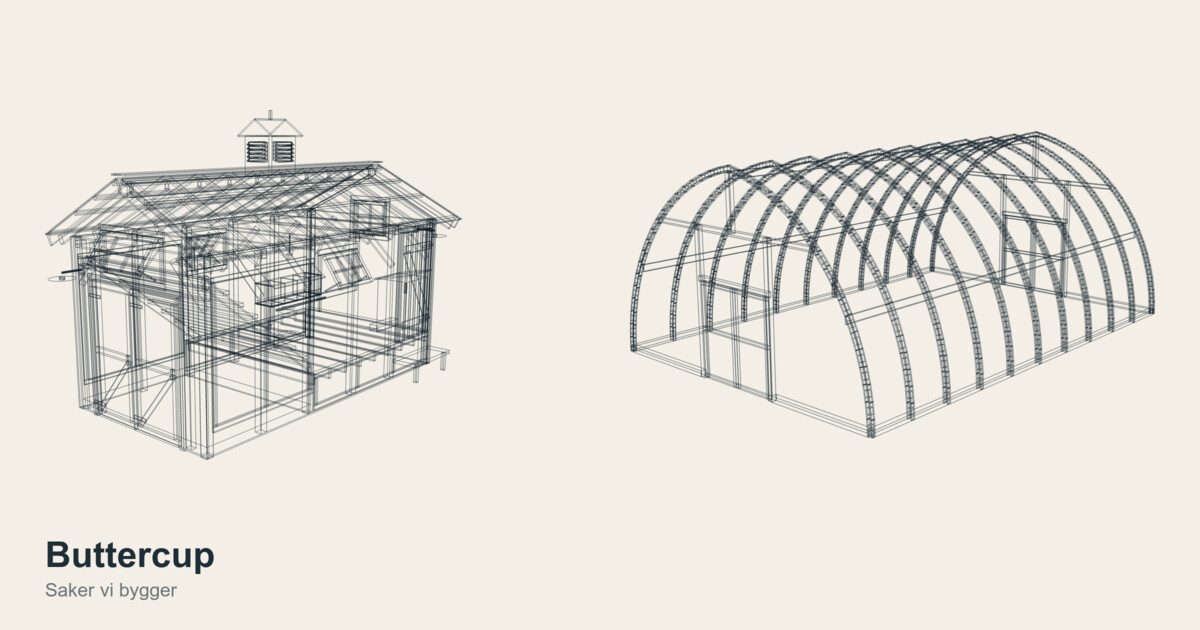
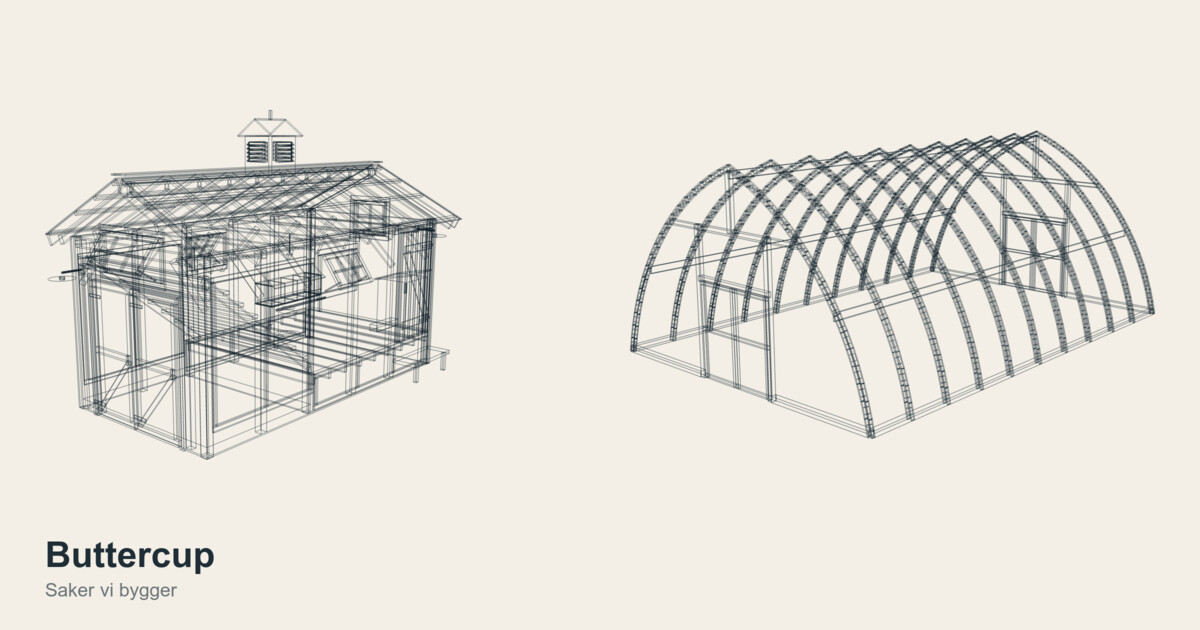
Växthus: spetsigare båge (radiecentrum under mark), reglage för spetsighet, ny förhandsbild

Changed region(s): [[0.5242, 0.2111, 0.9867, 0.6937], [0.6475, 0.6333, 0.6783, 0.6635]]

diff --git a/vaxthus/index.html b/vaxthus/index.html
@@ -130,6 +130,7 @@ dd{margin:2px 0 0;font-family:var(--mono);font-size:15px;font-variant-numeric:ta
     <div class="hrow"><span class="lab">Dörrhöjd</span><input id="dhi" type="range" min="1.8" max="3" step="0.05" value="2" aria-label="Dörrhöjd"><output id="dho" for="dhi"></output></div>
     <div class="hrow"><span class="lab">Överljus</span><input id="tri" type="range" min="0" max="1.5" step="0.05" value="1" aria-label="Överljusets höjd"><output id="tro" for="tri"></output></div>
     <div class="hrow"><span class="lab">Bågavstånd</span><input id="spi" type="range" min="0.6" max="3" step="0.05" value="1" aria-label="Avstånd mellan bågarna"><output id="spo" for="spi"></output></div>
+    <div class="hrow"><span class="lab">Spetsighet</span><input id="pti" type="range" min="0" max="2.5" step="0.05" value="1" aria-label="Hur spetsig bågen är"><output id="pto" for="pti"></output></div>
   </section>
   </div>
 
@@ -151,6 +152,8 @@ dd{margin:2px 0 0;font-family:var(--mono);font-size:15px;font-variant-numeric:ta
     <div><dt>Båglängd, halvbåge</dt><dd id="dB"></dd></div>
     <div><dt>Båglängd, hel båge</dt><dd id="dB2"></dd></div>
     <div><dt>Radiecentrum förskjutet</dt><dd id="dC"></dd></div>
+    <div><dt>Radiecentrum under mark</dt><dd id="dY"></dd></div>
+    <div><dt>Taklutning vid nock</dt><dd id="dP"></dd></div>
     <div><dt>Längd</dt><dd id="dL"></dd></div>
     <div><dt>Dörröppning</dt><dd id="dD"></dd></div>
     <div><dt>Överljus</dt><dd id="dT"></dd></div>
@@ -179,19 +182,20 @@ dd{margin:2px 0 0;font-family:var(--mono);font-size:15px;font-variant-numeric:ta
   var T=THREE, V=function(x,y,z){return new T.Vector3(x,y,z);};
 
   // ---- geometry constants (metres) ----
-  var A=3.5, H=4.2, C, R, TH1, ARC;
-  function geo(){ C=(H*H-A*A)/(2*A); R=C+A; TH1=Math.atan2(H,-C); ARC=R*(Math.PI-TH1); }
+  var A=3.5, H=4.2, YC=-1, C, R, TH0, TH1, ARC;
+  function geo(){ C=(H*H-A*A-2*H*YC)/(2*A); R=Math.sqrt((C+A)*(C+A)+YC*YC); TH0=Math.PI-Math.asin(-YC/R); TH1=Math.atan2(H-YC,-C); ARC=R*(TH0-TH1); }
+  function slope(){ return Math.atan(C/(H-YC))*180/Math.PI; }
   var DW=1, DH=2, TR=1;                      // half door width, door height, transom height
   function fit(){                            // keep the door frame under the arch
     DW=Math.min(DW,A-1);
-    var lim=Math.sqrt(R*R-(DW+C)*(DW+C))-.2;
+    var lim=YC+Math.sqrt(R*R-(DW+C)*(DW+C))-.2;
     if(DH+TR>lim) TR=Math.max(0,Math.floor((lim-DH)*20+1e-6)/20);
     if(DH+TR>lim) DH=Math.floor(lim*20+1e-6)/20;
   }
   geo(); fit();
   function fmt(v){ return String(Math.round(v)).replace(/\B(?=(\d{3})+(?!\d))/g,' '); }
-  function ap(u,side,r){ r=r||R; var t1=Math.acos(-C/r), th=Math.PI-u*(Math.PI-t1); var x=C+r*Math.cos(th); return [side<0?x:-x, r*Math.sin(th)]; }
-  function xa(y){ return Math.sqrt(R*R-y*y)-C; }
+  function ap(u,side,r){ r=r||R; var t0=Math.PI-Math.asin(Math.min(1,-YC/r)), t1=Math.acos(-C/r), th=t0-u*(t0-t1); var x=C+r*Math.cos(th); return [side<0?x:-x, YC+r*Math.sin(th)]; }
+  function xa(y){ return Math.sqrt(R*R-(y-YC)*(y-YC))-C; }
 
   var STEPS=[
     {n:'Syllram',a:0,b:.10},{n:'Bågar',a:.10,b:.52},{n:'Nock och sidoreglar',a:.52,b:.64},
@@ -344,6 +348,8 @@ dd{margin:2px 0 0;font-family:var(--mono);font-size:15px;font-variant-numeric:ta
     document.getElementById('dB').textContent=fmt(ARC*1000)+' mm';
     document.getElementById('dB2').textContent=fmt(2*ARC*1000)+' mm';
     document.getElementById('dC').textContent=fmt(C*1000)+' mm';
+    document.getElementById('dY').textContent=fmt(-YC*1000)+' mm';
+    document.getElementById('dP').textContent=Math.round(slope())+'°';
     document.getElementById('dN').textContent=n+' st';
     document.getElementById('dNl').textContent='Bågar c/c '+fmt(L/(n-1)*1000)+' mm';
     document.getElementById('dA').textContent=fmt(2*A*L)+' m²';
@@ -451,13 +457,13 @@ dd{margin:2px 0 0;font-family:var(--mono);font-size:15px;font-variant-numeric:ta
     function ln(c,x1,y1,x2,y2){ return '<line class="'+c+'" x1="'+x1+'" y1="'+y1+'" x2="'+x2+'" y2="'+y2+'"/>'; }
     function tx(x,yy,t,an,c,rot){ return '<text x="'+x+'" y="'+yy+'" text-anchor="'+(an||'middle')+'"'+(c?' class="'+c+'"':'')+(rot?' transform="rotate(-90 '+x+' '+yy+')"':'')+'>'+t+'</text>'; }
     o+=ln('s-gnd',-A-1.4,YG,A+1.4,YG);
-    [R-.047,R+.047].forEach(function(r){ var ay=YG-Math.sqrt(r*r-C*C); o+='<path class="s-arch" d="M'+(C-r)+' '+YG+' A'+r+' '+r+' 0 0 1 0 '+ay+' A'+r+' '+r+' 0 0 1 '+(r-C)+' '+YG+'"/>'; });
+    [R-.047,R+.047].forEach(function(r){ var bx=Math.sqrt(r*r-YC*YC)-C, ay=YG-(YC+Math.sqrt(r*r-C*C)); o+='<path class="s-arch" d="M'+(-bx)+' '+YG+' A'+r+' '+r+' 0 0 1 0 '+ay+' A'+r+' '+r+' 0 0 1 '+bx+' '+YG+'"/>'; });
     var nb=Math.max(12,Math.round(ARC/.3)), bj, bs, b0, b1;
     for(bj=0;bj<nb;bj++) for(bs=-1;bs<=1;bs+=2){ b0=ap((bj+.5)/nb,bs,R-.04); b1=ap((bj+.5)/nb,bs,R+.04); o+=ln('s-blk',b0[0],YG-b0[1],b1[0],YG-b1[1]); }
     o+='<rect class="s-wood" x="'+(-DW)+'" y="'+(YG-DH)+'" width="'+(2*DW)+'" height="'+DH+'"/><rect class="s-wood" x="'+(-DW)+'" y="'+(YG-top)+'" width="'+(2*DW)+'" height="'+TR+'"/>';
     o+=ln('s-wood',0,YG-DH,0,YG)+ln('s-wood',0,YG-top,0,y)+ln('s-wood',-DW,YG-top,-x3,YG-top)+ln('s-wood',DW,YG-top,x3,YG-top);
     // radius
-    o+=ln('s-dash',C,YG,m[0],YG-m[1])+'<circle cx="'+C+'" cy="'+YG+'" r=".07" fill="var(--muted)"/><circle cx="'+(-C)+'" cy="'+YG+'" r=".07" fill="var(--muted)"/>';
+    o+=ln('s-dash',C,YG-YC,m[0],YG-m[1])+'<circle cx="'+C+'" cy="'+(YG-YC)+'" r=".07" fill="var(--muted)"/><circle cx="'+(-C)+'" cy="'+(YG-YC)+'" r=".07" fill="var(--muted)"/>';
     o+=tx(m[0]-.2,YG-m[1]-.15,'R '+fmt(R*1000),'end','mut');
     // arc length
     o+=tx(ml[0],YG-ml[1],'Båge '+fmt(ARC*1000),'start');
@@ -478,6 +484,7 @@ dd{margin:2px 0 0;font-family:var(--mono);font-size:15px;font-variant-numeric:ta
     dhi.value=DH; dho.textContent=fmt(DH*1000)+' mm';
     tri.value=TR; tro.textContent=fmt(TR*1000)+' mm';
     spo.textContent=fmt(L/(nArch()-1)*1000)+' mm';
+    pti.value=-YC; pto.textContent=Math.round(slope())+'° vid nock';
   }
   var wid=document.getElementById('wid'), wout=document.getElementById('wout');
   var dwi=document.getElementById('dwi'), dwo=document.getElementById('dwo'), dhi=document.getElementById('dhi'), dho=document.getElementById('dho'), tri=document.getElementById('tri'), tro=document.getElementById('tro');
@@ -487,6 +494,8 @@ dd{margin:2px 0 0;font-family:var(--mono);font-size:15px;font-variant-numeric:ta
   tri.addEventListener('input',function(){ TR=parseFloat(tri.value); refresh(); });
   var spi=document.getElementById('spi'), spo=document.getElementById('spo');
   spi.addEventListener('input',function(){ SP=parseFloat(spi.value); refresh(); });
+  var pti=document.getElementById('pti'), pto=document.getElementById('pto');
+  pti.addEventListener('input',function(){ YC=-parseFloat(pti.value); refresh(); });
   function setHW(h,w){
     w=Math.round(Math.min(12,Math.max(4,w))*10)/10; var a=w/2;
     h=Math.round(Math.min(7,Math.max(3.5,a,h))*20)/20;
@@ -535,7 +544,7 @@ dd{margin:2px 0 0;font-family:var(--mono);font-size:15px;font-variant-numeric:ta
   }
   function bomCsv(sep){
     var head=['Del','Dimension','Antal','Kaplängd','Att köpa','Kommentar'];
-    var meta='Bågväxthus '+fmt(2*A*1000)+' × '+fmt(L*1000)+' mm, nockhöjd '+fmt(H*1000)+' mm, dörr '+fmt(DW*2000)+' × '+fmt(DH*1000)+' mm, överljus '+fmt(TR*1000)+' mm';
+    var meta='Bågväxthus '+fmt(2*A*1000)+' × '+fmt(L*1000)+' mm, nockhöjd '+fmt(H*1000)+' mm, R '+fmt(R*1000)+' mm (centrum '+fmt(-YC*1000)+' mm under mark), dörr '+fmt(DW*2000)+' × '+fmt(DH*1000)+' mm, överljus '+fmt(TR*1000)+' mm';
     function q(v){ v=String(v); return /[";\t\n]/.test(v)?'"'+v.replace(/"/g,'""')+'"':v; }
     return [meta,head.join(sep)].concat(bomRows().map(function(r){ return [r.del,r.dim,r.qty,r.len,r.buy,r.info].map(q).join(sep); })).join('\r\n');
   }
@@ -589,7 +598,7 @@ dd{margin:2px 0 0;font-family:var(--mono);font-size:15px;font-variant-numeric:ta
       dl(new Blob([res],{type:'model/gltf-binary'}),name); say('Sparad som '+name+' (meter, Y uppåt).');
     },{binary:true});
   });
-  window.__vx={setP:setP,getP:function(){return p;},n:function(){return beams.length;}};
+  window.__vx={setP:setP,getP:function(){return p;},n:function(){return beams.length;},scene:scene,cam:cam,renderer:renderer,inst:function(){return inst;},model:function(){return model;},doors:function(){return doors;}};
 
   build(); resize(); applyTheme();
 })();

diff --git a/vaxthus/NOTES.md b/vaxthus/NOTES.md
@@ -8,6 +8,10 @@ Byggd av Hugo i Claude (desktop). En fil, `index.html`, three.js r128 från cdnj
   - `C = (H² − A²) / 2A` → förskjutning 0,77 m
   - `R = C + A` → radie 4,27 m
   - `ARC = R·(π − atan2(H, −C))` → halvbåge 5,933 m, hel båge 11,866 m
+- **Spetsighet (tillagd av Vickan):** `YC` är radiecentrums höjd. Det var 0 i originalet, alltså centrum i marknivå, och nu är det −1,0 m som standard. Bredd och nockhöjd är låsta, så när centrum sänks växer radien och bågarna möts i en spetsigare (gotisk) nock.
+  - `C = (H² − A² − 2·H·YC) / 2A`, `R = √((C+A)² + YC²)`
+  - Taklutning vid nock = atan(C / (H − YC)). Den gamla rundade bågen gav 10°, standard nu 21° och max (YC = −2,5) ca 30°.
+  - Bågen möter marken något lutad i stället för lodrät. Reglaget "Spetsighet" går från 0 (rund) till 2,5 m.
 - `ap(u, side, r)` ger punkten längs bågen (u = 0 vid marken, 1 vid nocken). `xa(y)` ger bågens x vid höjden y.
 - `fit()` håller dörr och överljus under bågen. Om de inte får plats krymps först överljuset och sedan dörrhöjden, i steg om 5 cm, med 20 cm marginal.
 
